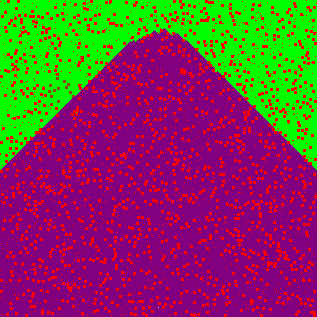
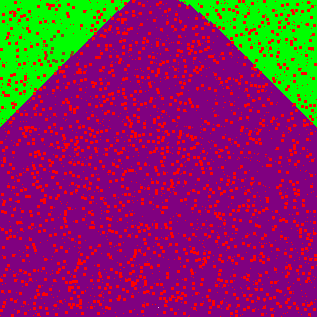
Map fixes
BFS map and DFS map no longer overwrite the minimap.png image, so the map should only display one algorithm at a time. Still need to implement pathways correctly.

diff --git a/worldGenerationFunctions.py b/worldGenerationFunctions.py
@@ -1,7 +1,6 @@
 from ursina import *
 import random
 from worldSettings import *
-from textures import *
 from ursina.prefabs.first_person_controller import FirstPersonController
 from PIL import Image, ImageDraw
 from collections import deque
@@ -64,12 +63,11 @@ class GameScreen:
         self.MiniMap.texture = "minimap.png"
         self.draw = ImageDraw.Draw(self.image)
         self.map = None
-        self.texture_counter = 0
 
         self.mini_block = Entity(
             parent=camera,
             model="minecraft_starter/assets/models/Torch",
-            texture=block_textures.get("torch"),
+            texture=self.settings.block_textures.get("torch"),
             scale= 0.2,
             position=(0.35, -0.25, 0.5),
             rotation=(-15, -30, -5)
@@ -82,8 +80,11 @@ class GameScreen:
     def BFS(self):
         print("algorithm started")
         tile_map = self.tile_map
-        image = self.image
-        draw = self.draw
+        self.bfsMap = Image.new('RGB', (self.settings.get_world_size(), self.settings.get_world_size()), color=(0, 0, 0, 0))
+        self.colorMap = []
+        draw_minimap(self.bfsMap, self.tile_map, self.colorMap, self.settings)
+        self.drawBFS = ImageDraw.Draw(self.bfsMap)
+        draw = self.drawBFS
         # Breadth First Search Algorithm
         # This algorithm will find the shortest path between the player and the home
         # The algorithm will return a list of coordinates (x, z) that represent the path from the player to the home
@@ -125,7 +126,7 @@ class GameScreen:
             print(f"Current: {current}")
             if current in goal:
                 # Reconstruct the path
-                self.image.save("minimapAlgorithmVisitedBFS.png")
+                self.bfsMap.save("minimapAlgorithmVisitedBFS.png")
 
                 path = []
                 while current != start:
@@ -139,7 +140,7 @@ class GameScreen:
                 
                 for x, z in path:
                     draw.point((self.settings.get_world_size() - x - 1, z), fill=(0, 0, 255, 255))
-                self.image.save("minimapAlgorithmPathBFS.png")
+                self.bfsMap.save("minimapAlgorithmPathBFS.png")
 
                 return path  # List of tuples from start to goal
 
@@ -233,21 +234,22 @@ class GameScreen:
 # Block class
 class Block(Entity):
     def __init__(self, position=(0, 0, 0), scale=(1, 1, 1), block_type="grass", **kwargs):
+        self.settings = worldSettings()
         if block_type == "zombie":
             model = "minecraft_starter/assets/models/AnyConv.com__zombie.obj"
-            texture = mob_textures.get("zombie")
+            texture = self.settings.mob_textures.get("zombie")
         elif block_type == "enderman":
             model = "minecraft_starter/assets/models/AnyConv.com__enderman.obj"
-            texture = mob_textures.get("enderman")
+            texture = self.settings.mob_textures.get("enderman")
         elif block_type == "creeper":
             model = "minecraft_starter/assets/models/AnyConv.com__creeper.obj"
-            texture = mob_textures.get("creeper")
+            texture = self.settings.mob_textures.get("creeper")
         elif block_type == "skeleton":
             model = "minecraft_starter/assets/models/AnyConv.com__skeleton.obj"
-            texture = mob_textures.get("skeleton")
+            texture = self.settings.mob_textures.get("skeleton")
         else:
             model = "minecraft_starter/assets/models/block_model"
-            texture = block_textures.get(block_type)
+            texture = self.settings.block_textures.get(block_type)
 
         super().__init__(
             position=position,
@@ -377,7 +379,7 @@ def update_blocks_on_path(game, path, block_type):
                 if block:
                     # Update existing block to the new type
                     block.block_type = block_type
-                    block.texture = block_textures.get(block_type)
+                    block.texture = game.settings.block_textures.get(block_type)
                 else:
                     # Add new block for the path
                     game.visible_blocks[world_position] = Block(

diff --git a/main.py b/main.py
@@ -54,7 +54,7 @@ class Game:
             self.last_save_time = current_time
             #game_screen.image = game_screen.image.transpose(Image.FLIP_LEFT_RIGHT)
             #game_screen.image = game_screen.image.transpose(Image.ROTATE_90)
-            self.game_screen.image.save("minimap.png")
+            # self.game_screen.image.save("minimap.png")
 
     def update_visible_blocks(self):
         # Update the visible blocks based on the player's position
@@ -71,11 +71,11 @@ class Game:
                 obstacle_position = (x, -4, z) # Position of the obstacles that are visible to us at the moment
                 if position in self.game_screen.block_positions and position not in self.visible_blocks:
                     # Use the appropriate texture based on whether it's an obstacle
+                    if self.game_screen.block_positions[position]:
+                        block_type = "grass" # Default block type
+                        self.visible_blocks[position] = Block(position=position, block_type=block_type)
                     if self.path is not None and (x, z) in self.path:
                         block_type = "snow"
-                        self.visible_blocks[position] = Block(position=position, block_type=block_type)
-                    elif self.game_screen.block_positions[position]: 
-                        block_type = "grass" # Default block type
                         self.visible_blocks[position] = Block(position=position, block_type=block_type)
                         #self.visible_blocks[obstacle_position] = Zombie(position=obstacle_position, scale = 0.1)
                         #zombie = Entity(model=mob_models.get("zombie"), texture = mob_textures.get("zombie"), scale=0.07, double_sided=True, y = -4, x = x, z = z)
@@ -201,7 +201,6 @@ app = Ursina()
 window.exit_button.visible = True # Show the Red X window close button
 
 # Loading textures and worldGen must occur after app in initialized
-from textures import *
 from worldGenerationFunctions import *
 from worldSettings import *
 
@@ -229,9 +228,10 @@ def input(key):
                 parent=camera.ui,
                 model='quad',
                 position=(-0.4, 0),
-                scale=(0.9, 0.9)
+                scale=(0.9, 0.9),
+                texture = "minimap.png"
             )
-            map.texture = "minimap.png"
+
             text_entity = Text(
                 text="Please Choose an Algorithm: \n Press 'B' for BFS \n Press 'D' for DFS",
                 position=(0.1, 0),
@@ -241,17 +241,22 @@ def input(key):
             )
     elif key == 'b' and mPressed:
         print("BFS Algorithm")
+        map.texture = "minimap.png"  # Reset the minimap texture
+        game.path = None  # Reset the path
         game.path = game.game_screen.BFS()  # Compute the path
         update_blocks_on_path(game, game.path, "snow")  # Place redstone blocks
-        game.map.texture = "minimapAlgorithmPathBFS.png"  # Update the minimap texture
+        map.texture = "minimapAlgorithmPathBFS.png"  # Update the minimap texture
 
     elif key == 'd' and mPressed:
         print("DFS Algorithm")
+        map.texture = "minimap.png"  # Reset the minimap texture
+        game.path = None  # Reset the path
         game.path = game.game_screen.DFS()  # Compute the path
         update_blocks_on_path(game, game.path, "snow")  # Place bluestone blocks
-        game.map.texture = "minimapAlgorithmPathDFS.png"  # Update the minimap texture
+        map.texture = "minimapAlgorithmPathDFS.png"  # Update the minimap texture
 
     elif key == 'r':
+        map.texture = "minimap.png"  # Reset the minimap texture
         if rectangle_entity:
             destroy(rectangle_entity)
             destroy(map)

diff --git a/worldSettings.py b/worldSettings.py
@@ -1,3 +1,5 @@
+from ursina import *
+
 ########################################################### GLOBAL VARIABLES ##################################################
 ###############################################################################################################################
 # World settings
@@ -16,7 +18,6 @@ class worldSettings:
         self.home_min_z = self.world_size - 80                                      # Home min z position
         self.home_max_z = self.world_size - 50     
         
-        from ursina import *
         
         # Load block textures
         self.block_textures = {
